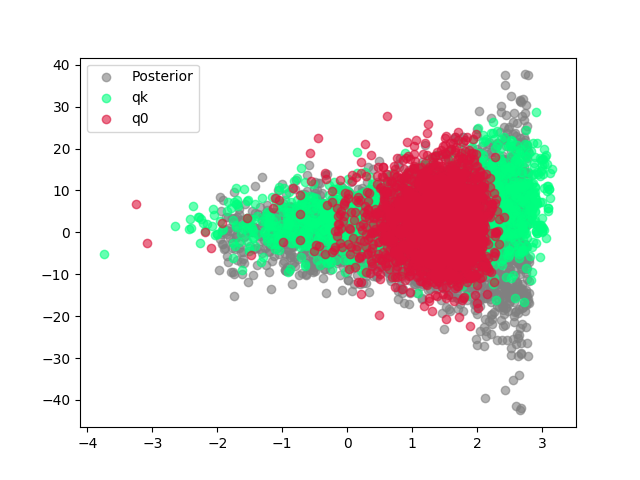
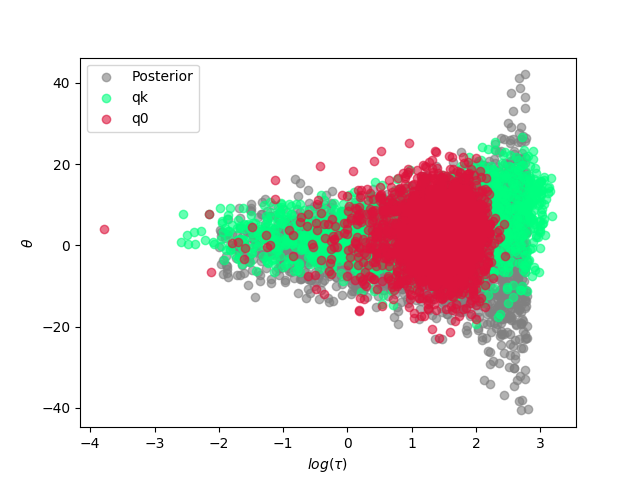
More pictures.

diff --git a/code/variational inference nf/visualisation_eight_schools.py b/code/variational inference nf/visualisation_eight_schools.py
@@ -8,7 +8,7 @@ from scipy.stats import halfcauchy
 MODEL_FILENAME = 'temp_weights_eight_schools.h5'
 
 d = 3
-DATA_SHAPE = (5000,3)
+DATA_SHAPE = (2500,3)
 N_FLOWS = 20
 q = Flows(d=3, n_flows=N_FLOWS, shape=DATA_SHAPE)
 q(tf.zeros(DATA_SHAPE))
@@ -19,7 +19,7 @@ thetas0, mu0, tau0 = z0[:, 0], z0[:, 1], z0[:, 2]
 thetas, mu, tau  = zk[:, 0], zk[:, 1], zk[:, 2]
 
 # Prior
-N = 10000
+N = 5000
 mu_prior = np.random.normal(loc=0, scale=5, size=N)
 tau_prior = halfcauchy.rvs(loc=0, scale=5, size=N)
 thetas_prior = np.random.normal(loc=mu_prior, scale=tau_prior, size=N)
@@ -27,9 +27,10 @@ mask_tau = (np.log(tau_prior) > -2) & (np.log(tau_prior) < 2.8)
 
 plt.figure()
 plt.scatter(np.log(tau_prior[mask_tau]), thetas_prior[mask_tau], color='gray', alpha=0.6)
-plt.scatter(tf.math.log(tau0), thetas0, color='crimson', alpha=0.6)
 plt.scatter(tf.math.log(tau), thetas, color='springgreen', alpha=0.6)
-plt.legend(['Posterior', 'q0', 'qk'])
+plt.scatter(tf.math.log(tau0), thetas0, color='crimson', alpha=0.6)
+
+plt.legend(['Posterior', 'qk', 'q0'])
 
 
 npdf = lambda x, m, s: np.exp(-(x-m)**2/(2*(s**2)))/np.sqrt(2*np.pi*(s**2))
@@ -43,32 +44,32 @@ def hcpdf(x, m, s):
 fig, (ax1, ax2, ax3) = plt.subplots(1, 3)
 # Histograms for latent/params
 count, bins, ignored = ax1.hist(thetas0.numpy(), 50, density=True, color='slategrey')
-ax1.plot(bins, npdf(bins, 10, 10),
-    linewidth=2, color='r')
 ax1.title.set_text('Distribution Theta')
 count, bins, ignored = ax2.hist(mu0.numpy(), 50, density=True, color='bisque')
 ax2.plot(bins, npdf(bins, 0, 5),
     linewidth=2, color='r')
 ax2.title.set_text('Distribution Mu')
+ax2.legend(['Prior', 'Learned Distribution'])
 count, bins, ignored = ax3.hist(tau0.numpy(), 50, density=True, color='skyblue')
 ax3.plot(bins, hcpdf(bins, 0, 5),
     linewidth=2, color='r')
 ax3.title.set_text('Distribution Tau')
+ax3.legend(['Prior', 'Learned Distribution'])
 
 # Distributions after flows
 fig, (ax1, ax2, ax3) = plt.subplots(1, 3)
 # Histograms for latent/params
 count, bins, ignored = ax1.hist(thetas.numpy(), 50, density=True, color='darkslategrey')
-ax1.plot(bins, npdf(bins, 10, 10),
-    linewidth=2, color='r')
 ax1.title.set_text('Distribution Theta')
 count, bins, ignored = ax2.hist(mu.numpy(), 50, density=True, color='orange')
 ax2.plot(bins, npdf(bins, 0, 5),
     linewidth=2, color='r')
 ax2.title.set_text('Distribution Mu')
+ax2.legend(['Prior', 'Learned Distribution'])
 count, bins, ignored = ax3.hist(tau.numpy(), 50, density=True, color='steelblue')
 ax3.plot(bins, hcpdf(bins, 0, 5),
     linewidth=2, color='r')
 ax3.title.set_text('Distribution Tau')
+ax3.legend(['Prior', 'Learned Distribution'])
 
 plt.show()

diff --git a/code/variational inference/visualisation_eight_schools.py b/code/variational inference/visualisation_eight_schools.py
@@ -8,7 +8,7 @@ from scipy.stats import halfcauchy
 MODEL_FILENAME = 'temp_weights_eight_schools.h5'
 
 d = 3
-DATA_SHAPE = (5000,3)
+DATA_SHAPE = (2500,3)
 q = GaussianWithReparametrization(d=3, shape=DATA_SHAPE)
 q(tf.zeros(DATA_SHAPE))
 q.load_weights(MODEL_FILENAME)
@@ -26,6 +26,7 @@ mask_tau = (np.log(tau_prior) > -2) & (np.log(tau_prior) < 2.8)
 plt.figure()
 plt.scatter(np.log(tau_prior[mask_tau]), thetas_prior[mask_tau], color='gray', alpha=0.6)
 plt.scatter(tf.math.log(tau), thetas, color='crimson', alpha=0.6)
+plt.legend(['True Posterior', 'q'])
 
 npdf = lambda x, m, s: np.exp(-(x-m)**2/(2*(s**2)))/np.sqrt(2*np.pi*(s**2))
 def hcpdf(x, m, s):
@@ -37,16 +38,17 @@ def hcpdf(x, m, s):
 fig, (ax1, ax2, ax3) = plt.subplots(1, 3)
 # Histograms for latent/params
 count, bins, ignored = ax1.hist(thetas.numpy(), 50, density=True, color='slategrey')
-ax1.plot(bins, npdf(bins, 10, 10),
-    linewidth=2, color='r')
 ax1.title.set_text('Distribution Theta')
 count, bins, ignored = ax2.hist(mu.numpy(), 50, density=True, color='bisque')
 ax2.plot(bins, npdf(bins, 0, 5),
     linewidth=2, color='r')
 ax2.title.set_text('Distribution Mu')
+ax2.legend(['Prior', 'Learned Distribution'])
 count, bins, ignored = ax3.hist(tau.numpy(), 50, density=True, color='skyblue')
 ax3.plot(bins, hcpdf(bins, 0, 5),
     linewidth=2, color='r')
 ax3.title.set_text('Distribution Tau')
+ax3.legend(['Prior', 'Learned Distribution'])
+
 
 plt.show()

diff --git a/notes.md b/notes.md
@@ -335,11 +335,67 @@ illustrated in the following figure:
 
 ![Figure Eight VI+NF Distribution](https://raw.githubusercontent.com/pierresegonne/VariationalInferenceNormalizingFlows/master/assets/figure_eight_nf_distribution.png)
 
-The two following figures illustrate how the flows warp the initial distribution to fit the posterior more closely.
+The two following figures illustrate how the flows warp the initial distribution to fit the posterior more closely. The original gaussian, $q0$, when sampled, generates the following set of points
 
 ![Figure Eight Posterior z0](https://raw.githubusercontent.com/pierresegonne/VariationalInferenceNormalizingFlows/master/assets/figure_eight_posterior_z0.png)
 
+While after the flows, the resulting distribution $qk$, generates:
+
 ![Figure Eight Posterior zk](https://raw.githubusercontent.com/pierresegonne/VariationalInferenceNormalizingFlows/master/assets/figure_eight_posterior_zk.png)
+
+__Eight Schools__
+
+The Eight Schools model is the simplest Bayesian hierarchical normal model. Given a set of schools in which a treatment is tested, each of them has to report the mean effect of the treatment $y_{i}$ and its associated standard deviation $\sigma_{i}$. All treatments are supposed independent from each other.
+
+The following model postulates that the mean effect of treatment $y_{i}$ is sampled from a normal distribution centered around the true __latent__ mean effect of the treatment, $\theta_{i}$:
+
+$$ y_{i} | \theta_{i} \sim \mathcal{N}(\theta_{i}, \sigma_{i}^{2}) $$
+
+These latent mean effect of treatment are themselves sampled from a shared normal distribution (the same treatment being tested in different schools) with parameters $\mu$ and $\tau$:
+
+$$ \theta_{i} | \mu, \tau \sim \mathcal{N}(\mu, \tau^{2}) $$
+
+Such that the parameters themselves have priors
+
+$$ \mu \sim \mathcal{N}(0,5) $$
+$$ \tau \sim \text{Half-Cauchy}(0,5) $$
+
+Representing the model as a graphical model can be useful to understand the model.
+
+![Eight Schools Graphical Model](https://raw.githubusercontent.com/pierresegonne/VariationalInferenceNormalizingFlows/master/assets/eight_schools_gm.png)
+
+Indeed, it makes it obvious that
+
+$$ p(y_{i}, \theta_{i}, \sigma_{i}, \mu, \tau) = p(y_{i}| \theta_{i}, \sigma_{i})p(\theta_{i} | \mu, \tau)p(\mu)p(\tau) = \mathcal{N}(y_{i}|\theta_{i},\sigma_{i}^{2})\mathcal{N}(\theta_{i}|\mu,\tau^{2})\mathcal{N}(\mu|0,5)\text{Half-Cauchy}(\tau|0,5)$$
+
+And thus the posterior distribution can be formulated as:
+
+$$ p(\theta_{i}, \mu, \tau | y_{i}, \sigma_{i}) \propto p(y_{i}| \theta_{i}, \sigma_{i})p(\theta_{i} | \mu, \tau)p(\mu)p(\tau) = \mathcal{N}(y_{i}|\theta_{i},\sigma_{i}^{2})\mathcal{N}(\theta_{i}|\mu,\tau^{2})\mathcal{N}(\mu|0,5)\text{Half-Cauchy}(\tau|0,5) $$
+
+In the case of standard variational inference, the approximated posterior will be:
+
+$$ \theta_{i}, \mu, \tau \sim \mathcal{N}(m, \Sigma) $$
+
+The following figure shows the learned distributions for the latent variable $\theta$ and the parameters $\mu$ and $\tau$
+
+![Eight Schools VI Distribution](https://raw.githubusercontent.com/pierresegonne/VariationalInferenceNormalizingFlows/master/assets/eight_schools_vi_distributions.png)
+
+And the following displays the scatter of samples from q for $log(\tau)$ (x-axis) and $\theta$ (y-axis):
+
+![Eight Schools VI Theta Logtau](https://raw.githubusercontent.com/pierresegonne/VariationalInferenceNormalizingFlows/master/assets/eight_schools_vi_theta_logtau.png)
+
+Using normalizing flows allows a closer fit, especially because it allows the original gaussian approximating $\tau$ to fit the true half-cauchy prior very closely. As can be seen in the following:
+
+For $q0$
+
+![Eight Schools VI+NF Distribution q0](https://raw.githubusercontent.com/pierresegonne/VariationalInferenceNormalizingFlows/master/assets/eight_schools_nf_distributions_q0.png)
+
+For $qk$
+
+![Eight Schools VI+NF Distribution qk](https://raw.githubusercontent.com/pierresegonne/VariationalInferenceNormalizingFlows/master/assets/eight_schools_nf_distributions_qk.png)
+
+![Eight Schools VI+NF Theta Logtau](https://raw.githubusercontent.com/pierresegonne/VariationalInferenceNormalizingFlows/master/assets/eight_schools_nf_theta_logtau.png)
+
 
 __Banana__
 
@@ -356,9 +412,6 @@ __Circle__
 ![Circle Posterior z0](https://raw.githubusercontent.com/pierresegonne/VariationalInferenceNormalizingFlows/master/assets/circle_posterior_z0.png)
 
 ![Circle Posterior zk](https://raw.githubusercontent.com/pierresegonne/VariationalInferenceNormalizingFlows/master/assets/circle_posterior_zk.png)
-
-__Eight Schools__
-
 
 
 # Unanswered Questions
@@ -389,7 +442,7 @@ __Eight Schools__
 
 * What dataset will be used for testing the neural network implementation ?
 
->First some test distributions can be used to verify the ability of the flow to fit non-trivial distributions. Then, it would be usefull to use a broad dataset to train a VAE where the encoder is enriched with normalizing flows (ex CIFAR10?).
+>First some test distributions can be used to verify the ability of the flow to fit non-trivial distributions. Then, it would be useful to use a broad dataset to train a VAE where the encoder is enriched with normalizing flows (ex CIFAR10?).
 
 * What non-trivial distributions could be used to test the ability of a finite set of flows to fit? 🆗
 
